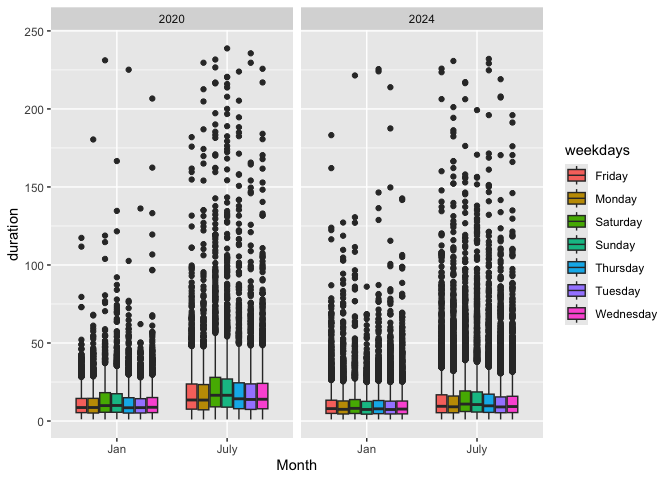
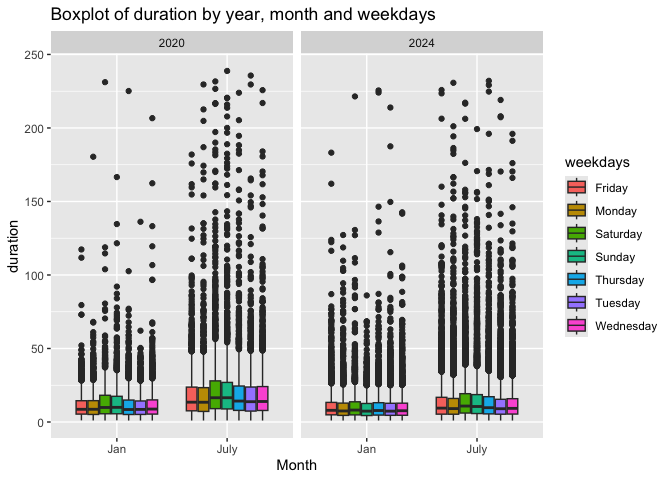
Probelm 3 -- adding title for boxplots

diff --git a/p8105_hw3_yy3563.md b/p8105_hw3_yy3563.md
@@ -514,7 +514,8 @@ citi_bike |>
   ) |> 
   ggplot(aes(x = Month, y = duration, fill = weekdays)) +
   geom_boxplot() +
-  facet_grid(. ~ Year)
+  facet_grid(. ~ Year) +
+  labs(title="Boxplot of duration by year, month and weekdays")
 ```
 
 ![](p8105_hw3_yy3563_files/figure-gfm/unnamed-chunk-22-1.png)<!-- -->
@@ -535,7 +536,8 @@ citi_bike |>
   ) |> 
   ggplot(aes(x = member_casual, y = duration, fill = rideable_type)) +
   geom_boxplot() +
-  facet_grid(. ~ Month)
+  facet_grid(. ~ Month) +
+  labs(title="Boxplot of duration by member casual, bike type and month")
 ```
 
 ![](p8105_hw3_yy3563_files/figure-gfm/unnamed-chunk-23-1.png)<!-- -->
